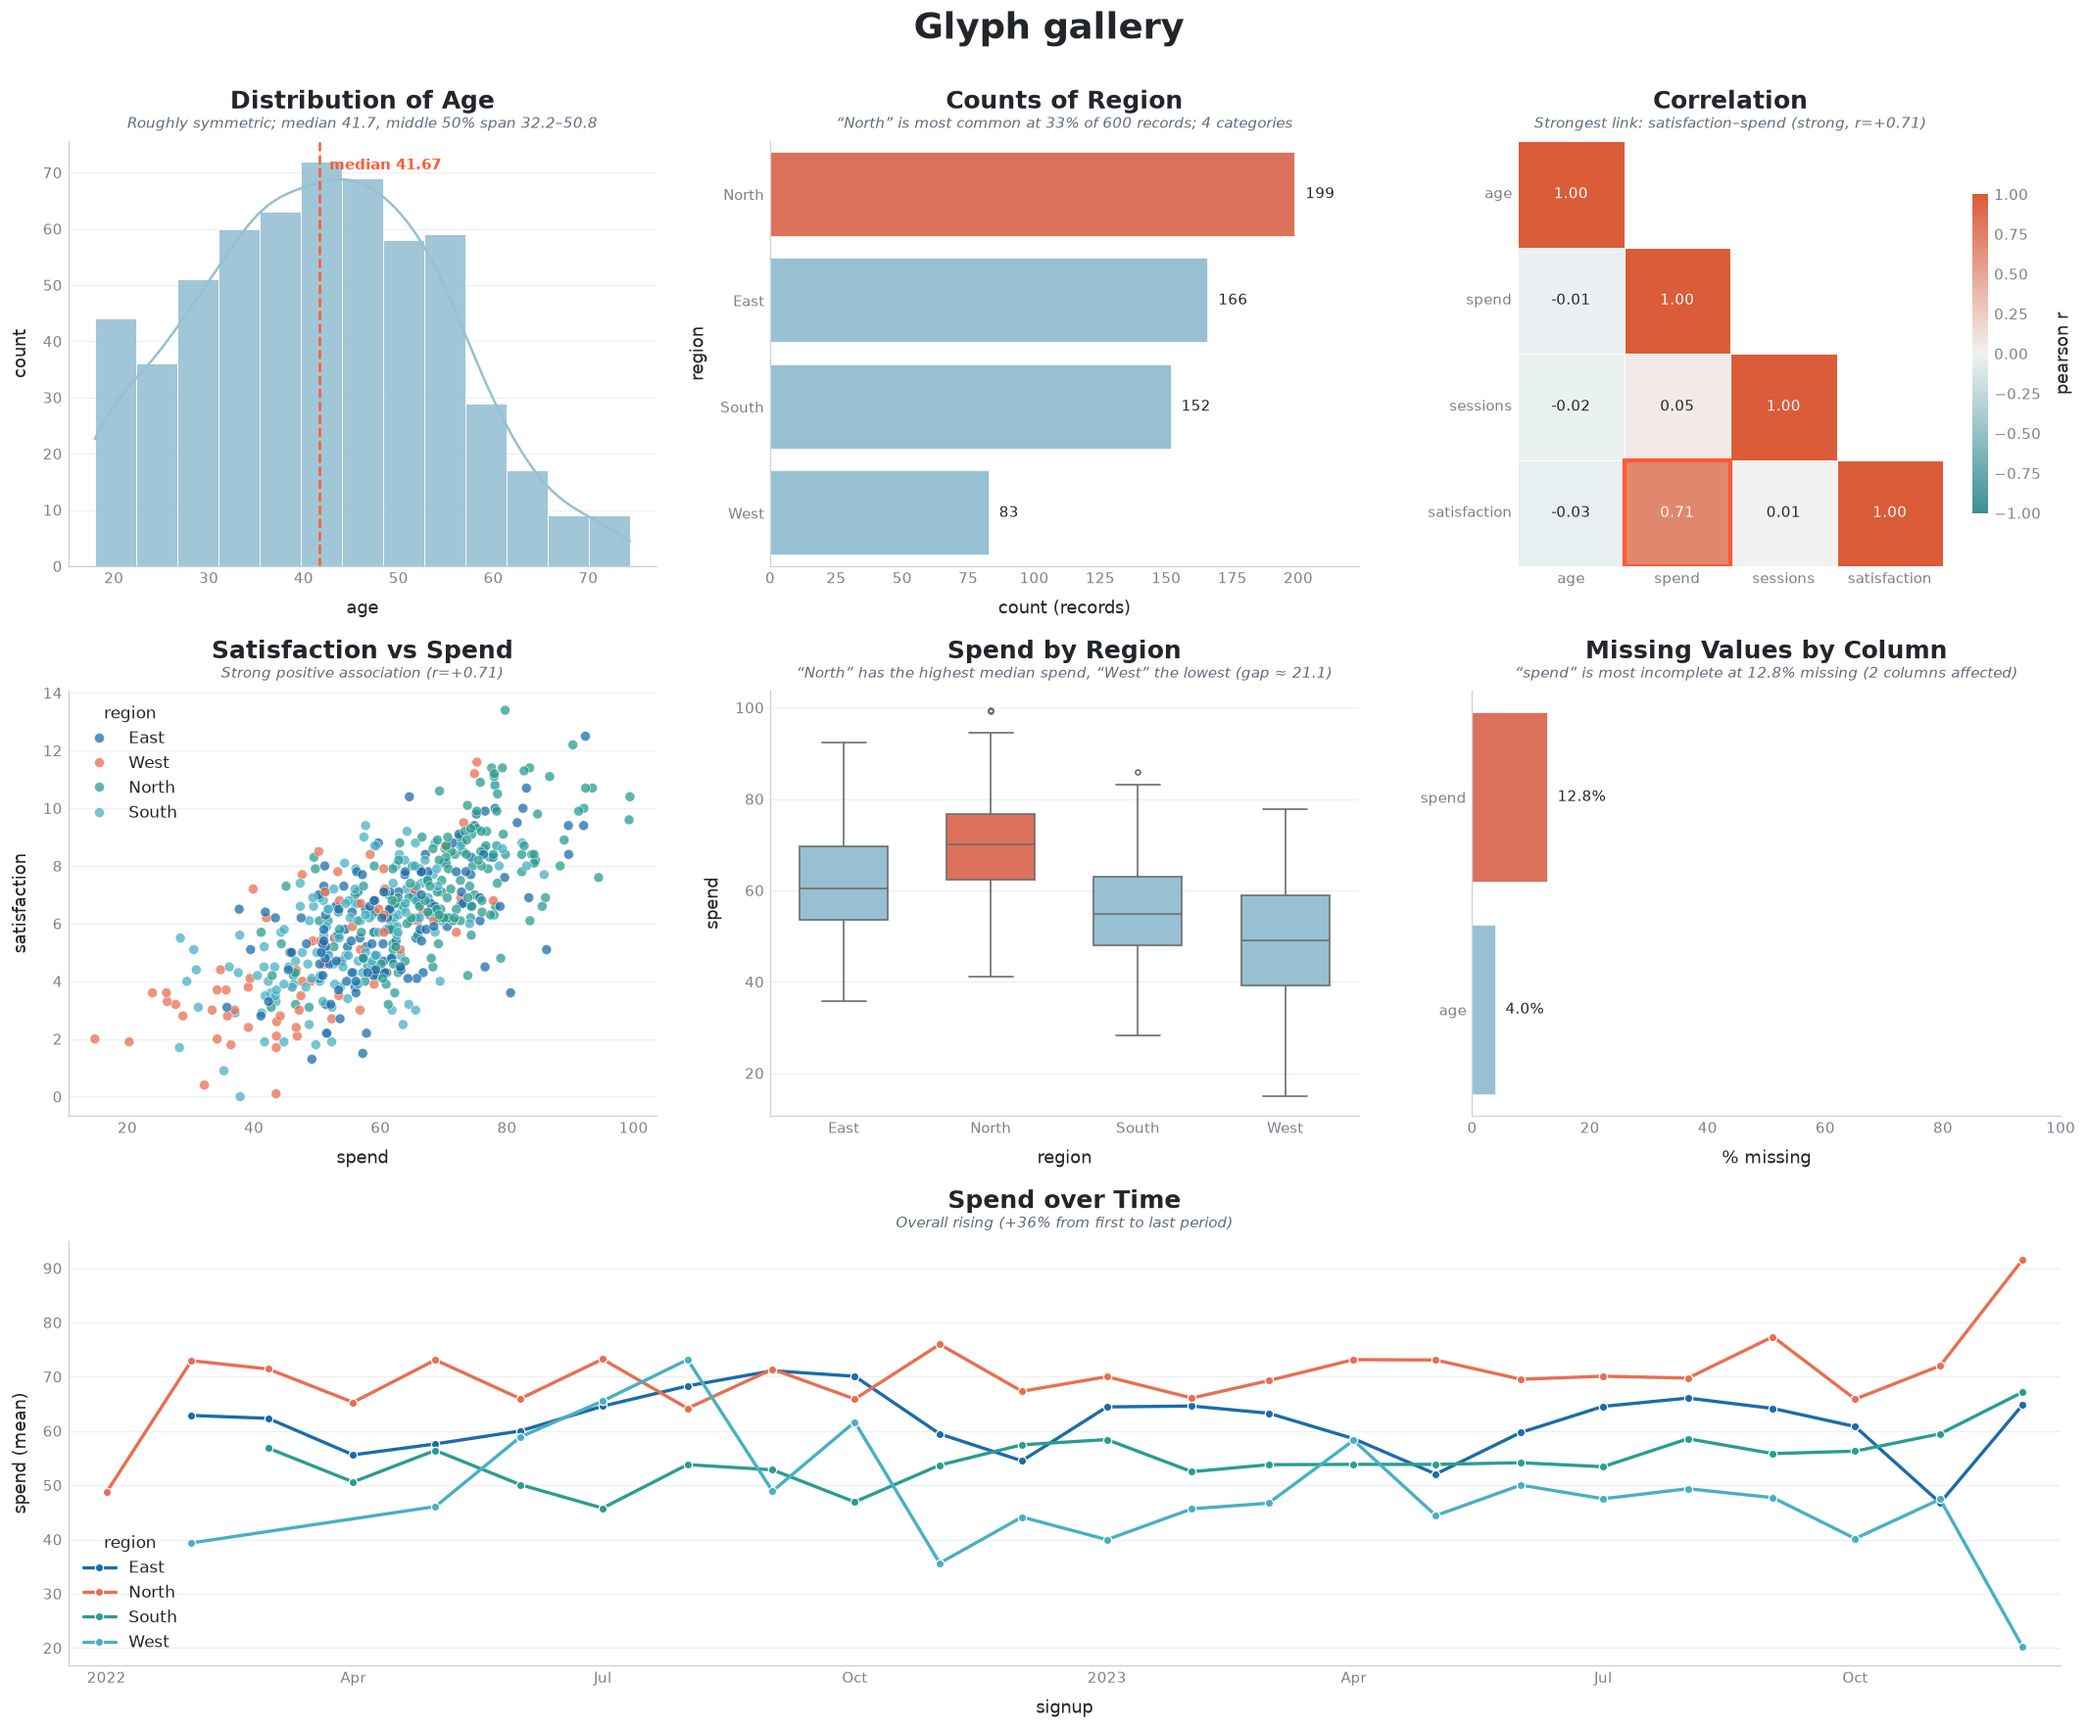
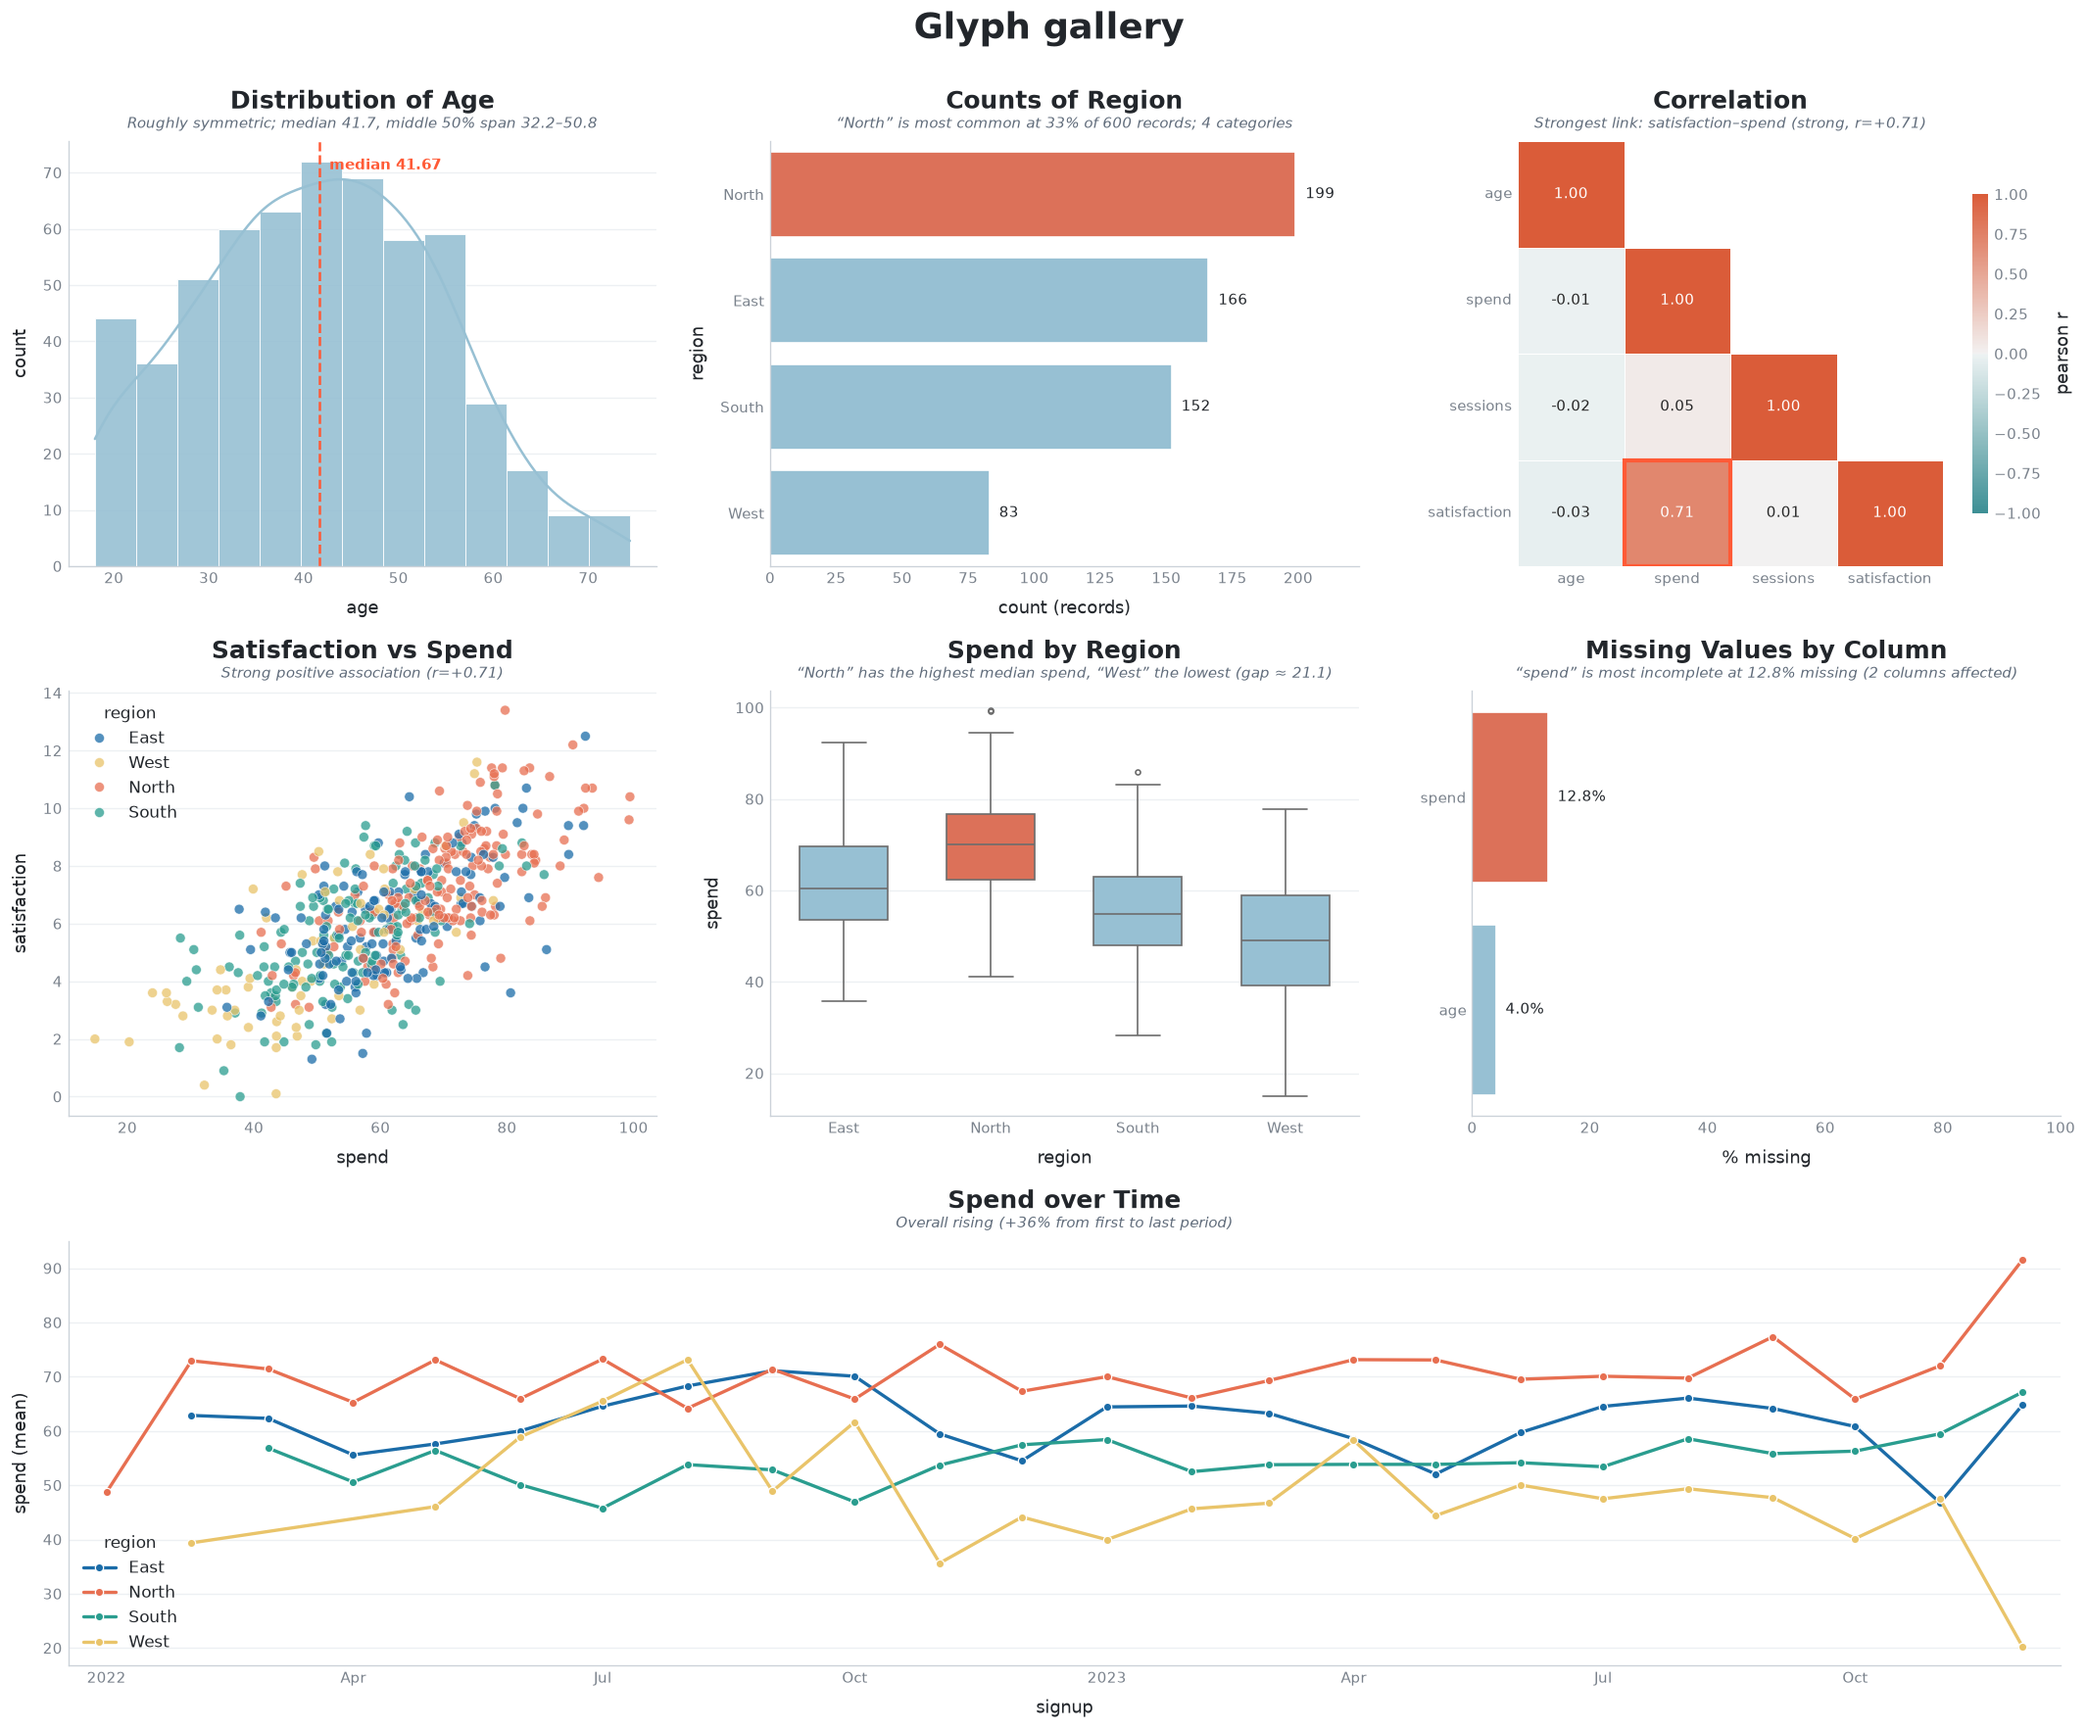
Make hue colors distinct and consistent across panels
- Reorder PALETTE so the first colors are maximally separable: blue, coral,
  teal green, sand gold, purple, ... (previously positions 3-4 were two
  blue-greens, so a 4th series like South/West read as the same color).
- Map hue colors by category value instead of position (_hue_palette now
  returns a dict), so a given category keeps one color across every plot in a
  figure — e.g. "West" is gold in both the scatter and the time series.

34 tests pass; previews regenerated.

Claude-Session: https://claude.ai/code/session_01Dd4o8XkhjckPVTTxTjVDuW

Changed region(s): [[0.062, 0.4363, 0.2789, 0.6232], [0.4338, 0.8725, 0.4648, 0.9037], [0.3099, 0.779, 0.3408, 0.8102]]

diff --git a/src/glyph/plots.py b/src/glyph/plots.py
@@ -459,10 +459,15 @@ def _axis_label(col: str, units: Optional[dict]) -> str:
     return str(col)
 
 
-def _hue_palette(values) -> list[str]:
-    """A palette sized to the number of distinct hue categories."""
-    n = int(pd.Series(values).nunique(dropna=True))
-    return [theme.color(i) for i in range(max(n, 1))]
+def _hue_palette(values) -> dict:
+    """Map each distinct category to a fixed palette color.
+
+    Keyed by category value (not position) so a given category keeps the same
+    color across every plot in a figure, and so each series is distinctly
+    colored.
+    """
+    levels = sorted(pd.Series(values).dropna().unique(), key=str)
+    return {level: theme.color(i) for i, level in enumerate(levels)}
 
 
 def _series_colors(df: pd.DataFrame, hue: Optional[str], single: str) -> dict:

diff --git a/src/glyph/theme.py b/src/glyph/theme.py
@@ -18,11 +18,11 @@ PALETTE = [
     "#1B6CA8",  # ocean blue
     "#E76F51",  # coral
     "#2A9D8F",  # teal green
-    "#48B0C4",  # lagoon blue
+    "#E9C46A",  # sand gold  (breaks the blue↔green clash for a 4th series)
+    "#8E5B9F",  # sea urchin purple
     "#5FB49C",  # seafoam green
-    "#F4A26B",  # soft coral
     "#0A4F6E",  # deep navy
-    "#8ED2C3",  # pale aqua
+    "#F4A26B",  # soft coral
 ]
 
 #: The quiet default: most marks in a single-series chart use this soft ocean
